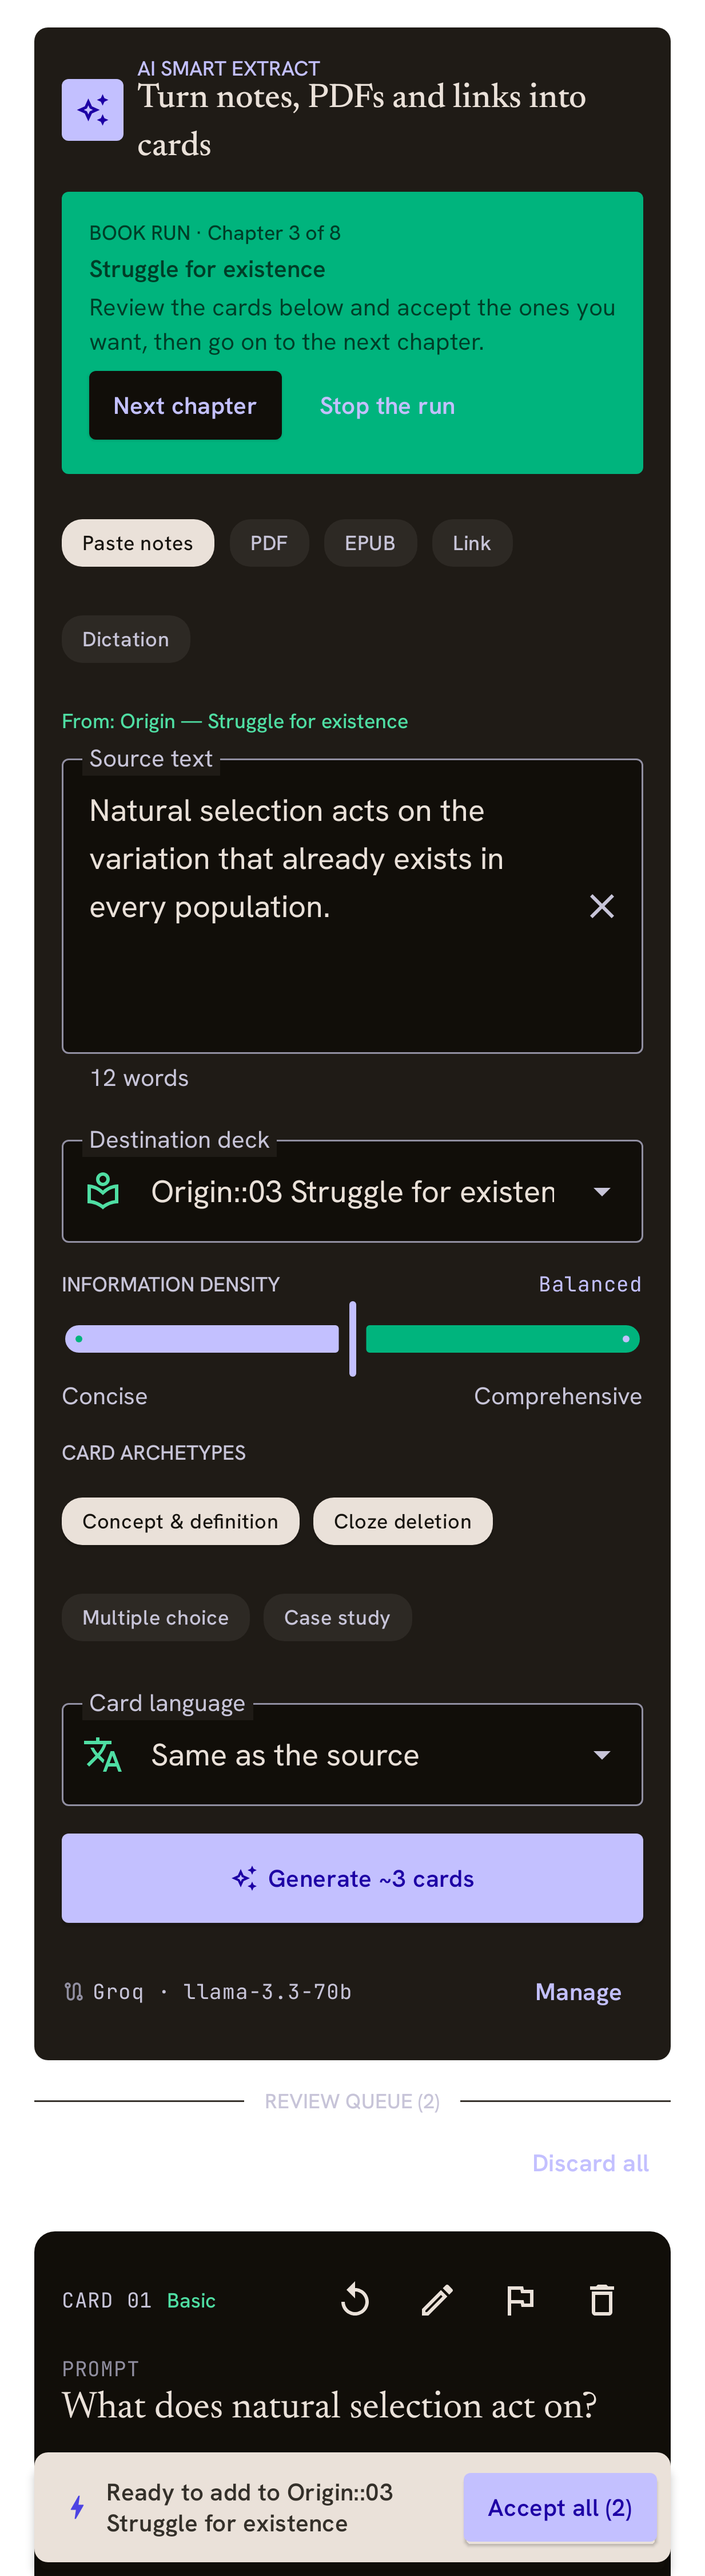
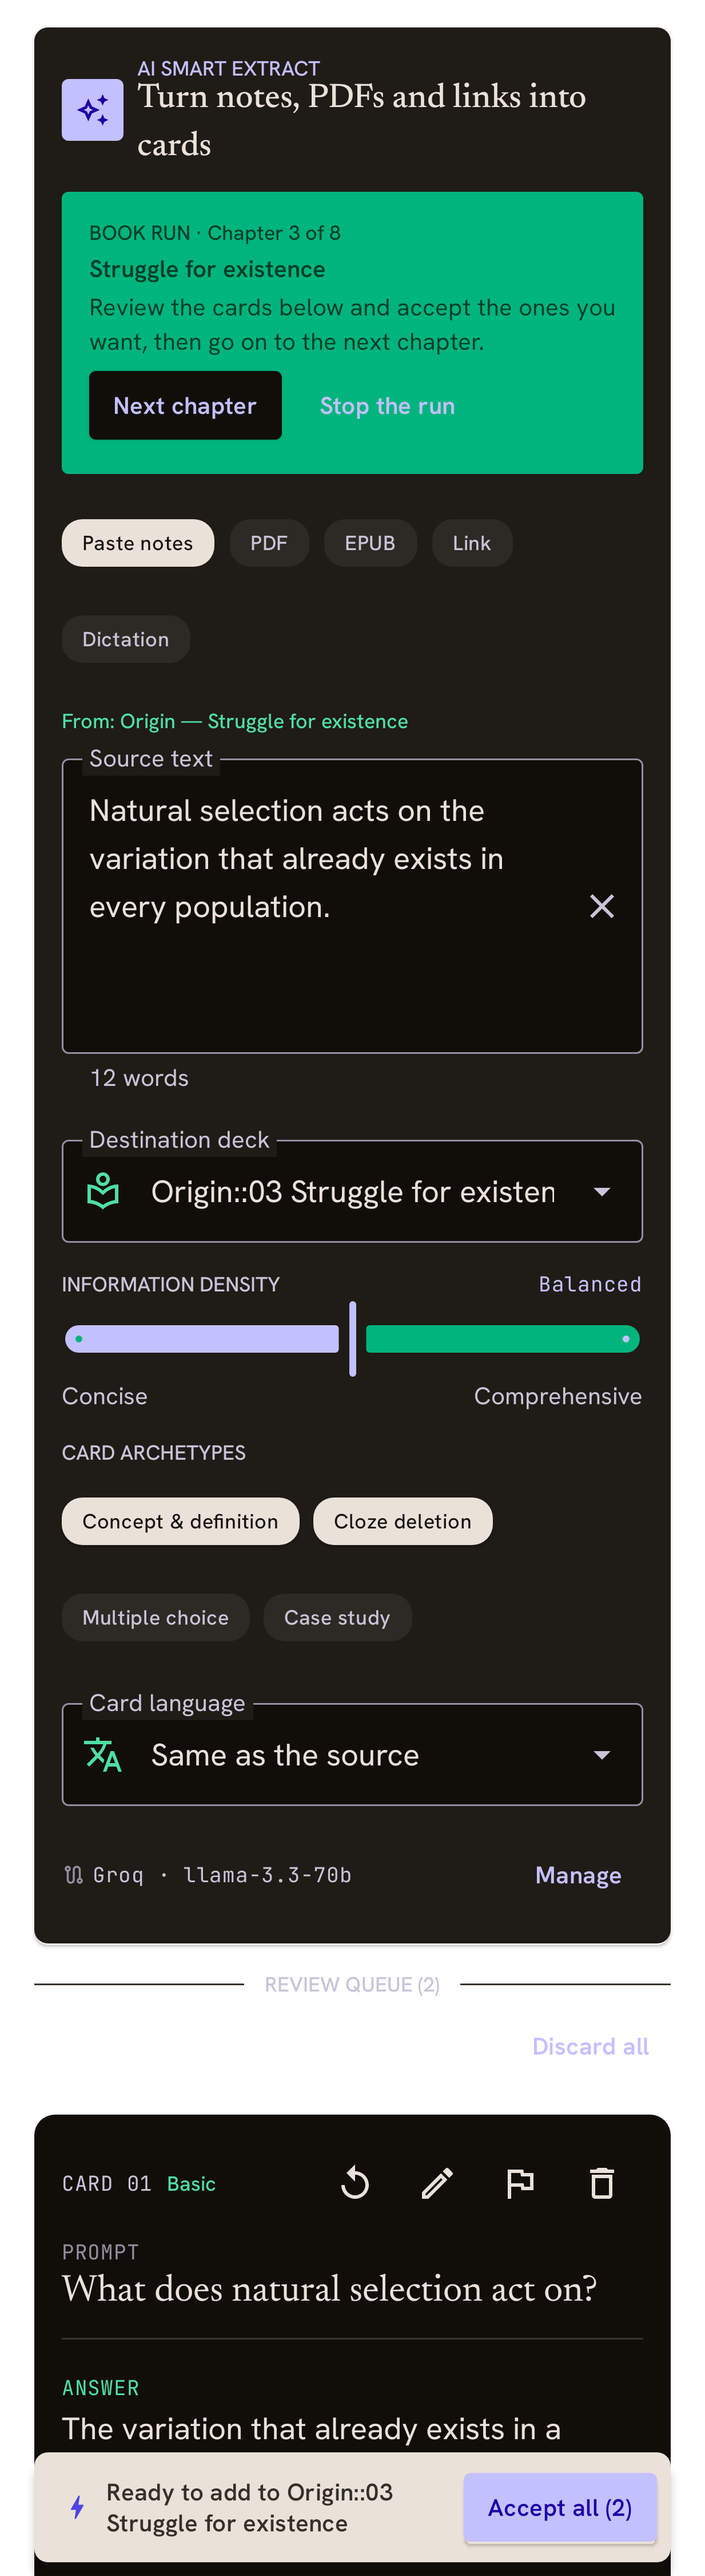
Implement PDF source improvements: add page range selection, AI transcription for scanned pages, and support for images as card sources

Changed region(s): [[0.0308, 0.6844, 0.9554, 0.9644], [0.7705, 0.9333, 0.8013, 0.9644]]

diff --git a/feature/create/src/commonMain/kotlin/com/yahyafati/mnemo/feature/create/SmartExtractViewModel.kt b/feature/create/src/commonMain/kotlin/com/yahyafati/mnemo/feature/create/SmartExtractViewModel.kt
@@ -103,6 +103,12 @@ class SmartExtractViewModel(
     /** The decks the book import made for the run's chapters, by chapter id. */
     private var batchDecks: Map<Int, String> = emptyMap()
 
+    /** The cards waiting for the user to agree to add them to a deck that already has some. */
+    private var pendingAccept: List<String>? = null
+
+    /** Decks the user agreed to add to, or that this session already added to: they aren't asked about again. */
+    private val confirmedDecks = mutableSetOf<String>()
+
     /** A deck known to exist that the decks list may not have yet (the run's first chapter, made a moment ago). */
     private var pinnedDeckId: String? = null
 
@@ -120,7 +126,7 @@ class SmartExtractViewModel(
     init {
         viewModelScope.launch {
             combine(aiProviders.observeEffectiveRoutes(), deckRepository.observeDeckSummaries()) { routes, decks ->
-                routes[AiTask.Extract] to decks.map { DeckOption(it.deck.id, it.path) }.sortedBy { it.path.lowercase() }
+                routes[AiTask.Extract] to decks.map { DeckOption(it.deck.id, it.path, it.totalCount) }.sortedBy { it.path.lowercase() }
             }.collect { (route, decks) ->
                 val preferred = preferredDeck(decks)
                 val pinned = pinnedDeckId
@@ -222,19 +228,32 @@ class SmartExtractViewModel(
             SmartExtractAction.DictationPermissionDenied ->
                 _uiState.update { it.copy(dictation = DictationState.Failed(DictationProblem.NoPermission)) }
             is SmartExtractAction.SelectDeck -> {
+                pendingAccept = null
                 preferredDeckPath = null
                 pinnedDeckId = null
-                _uiState.update { it.copy(deckId = action.deckId) }
+                _uiState.update { it.copy(deckId = action.deckId, nonEmptyDeck = null) }
             }
             SmartExtractAction.ShowDeckDialog -> _uiState.update { it.copy(showDeckDialog = true) }
             SmartExtractAction.DismissDeckDialog -> _uiState.update { it.copy(showDeckDialog = false) }
+            SmartExtractAction.ConfirmNonEmptyDeck -> {
+                val ids = pendingAccept
+                pendingAccept = null
+                _uiState.value.deckId?.let { confirmedDecks += it }
+                _uiState.update { it.copy(nonEmptyDeck = null) }
+                if (ids != null) accept(ids)
+            }
+            SmartExtractAction.CancelNonEmptyDeck -> {
+                pendingAccept = null
+                _uiState.update { it.copy(nonEmptyDeck = null) }
+            }
             is SmartExtractAction.CreateDeck -> {
                 _uiState.update { it.copy(showDeckDialog = false) }
                 viewModelScope.launch {
                     val id = deckRepository.saveDeck(action.path, action.description, action.category)
                     preferredDeckPath = null
                     pinnedDeckId = null
-                    _uiState.update { it.copy(deckId = id) }
+                    pendingAccept = null
+                    _uiState.update { it.copy(deckId = id, nonEmptyDeck = null) }
                 }
             }
             is SmartExtractAction.SetDensity -> updateOptions { it.copy(density = action.density) }
@@ -648,7 +667,10 @@ class SmartExtractViewModel(
     private fun editCard(id: String, transform: (GeneratedCard) -> GeneratedCard) =
         _uiState.update { state -> state.copy(queue = state.queue.map { if (it.card.id == id) it.copy(card = transform(it.card)) else it }) }
 
-    /** Saves [ids] to the chosen deck. They leave the queue at once, so a double tap can't save twice. */
+    /**
+     * Saves [ids] to the chosen deck. They leave the queue at once, so a double tap can't save twice. A deck that
+     * already has cards is asked about first (once per deck): a whole queue in the wrong deck is hard to take back.
+     */
     private fun accept(ids: List<String>) {
         val state = _uiState.value
         val deckId = state.deckId
@@ -658,6 +680,14 @@ class SmartExtractViewModel(
         }
         val items = state.queue.filter { it.card.id in ids && it.problem == null && !it.regenerating }
         if (items.isEmpty()) return
+        val deck = state.decks.firstOrNull { it.id == deckId }
+        if (deck != null && deck.cardCount > 0 && deckId !in confirmedDecks) {
+            pendingAccept = ids
+            _uiState.update { it.copy(nonEmptyDeck = NonEmptyDeck(deck.path, deck.cardCount)) }
+            return
+        }
+        // This session's own cards make the deck non-empty: no need to ask again before the next one.
+        confirmedDecks += deckId
         val removed = items.map { it.card.id }.toSet()
         _uiState.update { s -> s.copy(queue = s.queue.filterNot { it.card.id in removed }, editingId = s.editingId.takeIf { it !in removed }) }
         viewModelScope.launch {

diff --git a/feature/create/src/commonTest/kotlin/com/yahyafati/mnemo/feature/create/SmartExtractViewModelTest.kt b/feature/create/src/commonTest/kotlin/com/yahyafati/mnemo/feature/create/SmartExtractViewModelTest.kt
@@ -193,6 +193,69 @@ class SmartExtractViewModelTest {
     }
 
     @Test
+    fun acceptingIntoADeckThatHasCardsAsksOncePerDeck() = runTest {
+        decks.setCounts(deckId, FakeDeckRepository.DeckCounts(total = 12))
+        val vm = readyViewModel()
+        generation.answer(card("Q1", "A1"), card("Q2", "A2"), card("Q3", "A3"))
+        vm.onAction(SmartExtractAction.Generate)
+        val (first, second) = vm.state.queue.map { it.card.id }
+
+        vm.onAction(SmartExtractAction.Accept(first))
+        assertEquals(NonEmptyDeck("Neuroscience", 12), vm.state.nonEmptyDeck)
+        assertTrue(cards.notes.value.isEmpty(), "nothing is saved until the user agrees")
+        assertEquals(3, vm.state.queue.size)
+
+        vm.onAction(SmartExtractAction.CancelNonEmptyDeck)
+        assertNull(vm.state.nonEmptyDeck)
+        assertTrue(cards.notes.value.isEmpty())
+
+        vm.onAction(SmartExtractAction.Accept(first))
+        vm.onAction(SmartExtractAction.ConfirmNonEmptyDeck)
+        assertNull(vm.state.nonEmptyDeck)
+        assertEquals(1, cards.notes.value.size)
+        assertEquals(2, vm.state.queue.size)
+        assertEquals(second, vm.state.queue.first().card.id)
+
+        vm.onAction(SmartExtractAction.AcceptAll)
+        assertNull(vm.state.nonEmptyDeck, "the deck was agreed to already")
+        assertEquals(3, cards.notes.value.size)
+    }
+
+    @Test
+    fun anEmptyDeckIsNotAskedAboutAgainOnceCardsWentIn() = runTest {
+        val vm = readyViewModel()
+        vm.onAction(SmartExtractAction.SelectDeck(deckId))
+        generation.answer(card("Q1", "A1"), card("Q2", "A2"))
+        vm.onAction(SmartExtractAction.Generate)
+        val first = vm.state.queue.first().card.id
+
+        vm.onAction(SmartExtractAction.Accept(first))
+        assertNull(vm.state.nonEmptyDeck)
+        // The deck list catches up with the saved card.
+        decks.setCounts(deckId, FakeDeckRepository.DeckCounts(total = 1))
+        vm.onAction(SmartExtractAction.AcceptAll)
+        assertNull(vm.state.nonEmptyDeck)
+        assertEquals(2, cards.notes.value.size)
+    }
+
+    @Test
+    fun choosingAnotherDeckDropsTheQuestion() = runTest {
+        decks.setCounts(deckId, FakeDeckRepository.DeckCounts(total = 1))
+        val other = decks.saveDeck("Empty")
+        val vm = readyViewModel()
+        generation.answer(card("Q1", "A1"))
+        vm.onAction(SmartExtractAction.Generate)
+        vm.onAction(SmartExtractAction.SelectDeck(deckId))
+
+        vm.onAction(SmartExtractAction.AcceptAll)
+        assertNotNull(vm.state.nonEmptyDeck)
+        vm.onAction(SmartExtractAction.SelectDeck(other))
+        assertNull(vm.state.nonEmptyDeck)
+        vm.onAction(SmartExtractAction.AcceptAll)
+        assertEquals(other, cards.notes.value.values.single().deckId)
+    }
+
+    @Test
     fun regenerateAndDiscard() = runTest {
         val vm = readyViewModel()
         generation.answer(card("Vague question?", "Vague answer"), card("Keep me?", "Yes"))

diff --git a/feature/create/src/commonMain/kotlin/com/yahyafati/mnemo/feature/create/SmartExtractScreen.kt b/feature/create/src/commonMain/kotlin/com/yahyafati/mnemo/feature/create/SmartExtractScreen.kt
@@ -108,6 +108,10 @@ import com.yahyafati.mnemo.feature.create.resources.feature_create_archetype_clo
 import com.yahyafati.mnemo.feature.create.resources.feature_create_archetype_definition
 import com.yahyafati.mnemo.feature.create.resources.feature_create_archetypes
 import com.yahyafati.mnemo.feature.create.resources.feature_create_back
+import com.yahyafati.mnemo.feature.create.resources.feature_create_nonempty_cancel
+import com.yahyafati.mnemo.feature.create.resources.feature_create_nonempty_confirm
+import com.yahyafati.mnemo.feature.create.resources.feature_create_nonempty_message
+import com.yahyafati.mnemo.feature.create.resources.feature_create_nonempty_title
 import com.yahyafati.mnemo.feature.create.resources.feature_create_batch_discard_advance
 import com.yahyafati.mnemo.feature.create.resources.feature_create_batch_discard_confirm
 import com.yahyafati.mnemo.feature.create.resources.feature_create_batch_discard_keep
@@ -355,6 +359,23 @@ internal fun SmartExtractScreen(
             onDismiss = { onAction(SmartExtractAction.CancelBatchDiscard) },
         )
     }
+    uiState.nonEmptyDeck?.let { deck ->
+        AlertDialog(
+            onDismissRequest = { onAction(SmartExtractAction.CancelNonEmptyDeck) },
+            title = { Text(stringResource(Res.string.feature_create_nonempty_title)) },
+            text = { Text(pluralStringResource(Res.plurals.feature_create_nonempty_message, deck.cards, deck.path, deck.cards)) },
+            confirmButton = {
+                TextButton(onClick = { onAction(SmartExtractAction.ConfirmNonEmptyDeck) }) {
+                    Text(stringResource(Res.string.feature_create_nonempty_confirm))
+                }
+            },
+            dismissButton = {
+                TextButton(onClick = { onAction(SmartExtractAction.CancelNonEmptyDeck) }) {
+                    Text(stringResource(Res.string.feature_create_nonempty_cancel))
+                }
+            },
+        )
+    }
     uiState.book?.takeIf { uiState.showChapters }?.let { book ->
         ChapterChooserDialog(
             book = book,
@@ -453,7 +474,8 @@ private fun Workshop(
             ArchetypePicker(uiState.options.archetypes) { onAction(SmartExtractAction.ToggleArchetype(it)) }
             LanguagePicker(uiState.options.language) { onAction(SmartExtractAction.SetLanguage(it)) }
 
-            GenerateControls(uiState, onAction)
+            // A book run generates by itself and moves on through the banner; a Generate button here would only invite a second request.
+            if (uiState.batch == null || uiState.generation !is GenerationState.Done) GenerateControls(uiState, onAction)
             Row(verticalAlignment = Alignment.CenterVertically) {
                 Icon(MnemoIcons.Route, null, tint = colors.outline, modifier = Modifier.size(14.dp))
                 Text(

diff --git a/feature/create/src/commonMain/kotlin/com/yahyafati/mnemo/feature/create/SmartExtractUiState.kt b/feature/create/src/commonMain/kotlin/com/yahyafati/mnemo/feature/create/SmartExtractUiState.kt
@@ -62,6 +62,8 @@ data class SmartExtractUiState(
     /** Waiting for the user to accept the provider notice before sending anything. */
     val disclosure: AiRoute? = null,
     val showDeckDialog: Boolean = false,
+    /** Asking the user to confirm adding cards to a deck that already has some. */
+    val nonEmptyDeck: NonEmptyDeck? = null,
     /** A one-off message for the snackbar; cleared once shown. */
     val message: ExtractMessage? = null,
 ) {
@@ -123,6 +125,9 @@ enum class BatchConfirmation {
     /** The run goes on to the next chapter, or ends after the last. */
     Advance,
 }
+
+/** The deck the accepted cards are about to join, which already holds [cards] cards. */
+data class NonEmptyDeck(val path: String, val cards: Int)
 
 /** A proposed card in the review queue. [source] is the part of the text it came from, for regenerating. */
 data class QueueItem(
@@ -238,6 +243,11 @@ sealed interface SmartExtractAction {
     data object ShowDeckDialog : SmartExtractAction
 
     data object DismissDeckDialog : SmartExtractAction
+
+    /** The user agreed to add the cards to the deck that already has some ([SmartExtractUiState.nonEmptyDeck]). */
+    data object ConfirmNonEmptyDeck : SmartExtractAction
+
+    data object CancelNonEmptyDeck : SmartExtractAction
 
     data class CreateDeck(val path: String, val category: String, val description: String) : SmartExtractAction
 

diff --git a/feature/create/src/commonMain/kotlin/com/yahyafati/mnemo/feature/create/NoteEditorUiState.kt b/feature/create/src/commonMain/kotlin/com/yahyafati/mnemo/feature/create/NoteEditorUiState.kt
@@ -63,7 +63,8 @@ data class NoteEditorUiState(
     }
 }
 
-data class DeckOption(val id: String, val path: String)
+/** [cardCount] is the cards in this deck alone, not its subdecks (only Smart Extract reads it). */
+data class DeckOption(val id: String, val path: String, val cardCount: Int = 0)
 
 enum class EditorProblem { NoDeck, EmptyFront, EmptyBack, NoCloze, NoWrongAnswers }
 
